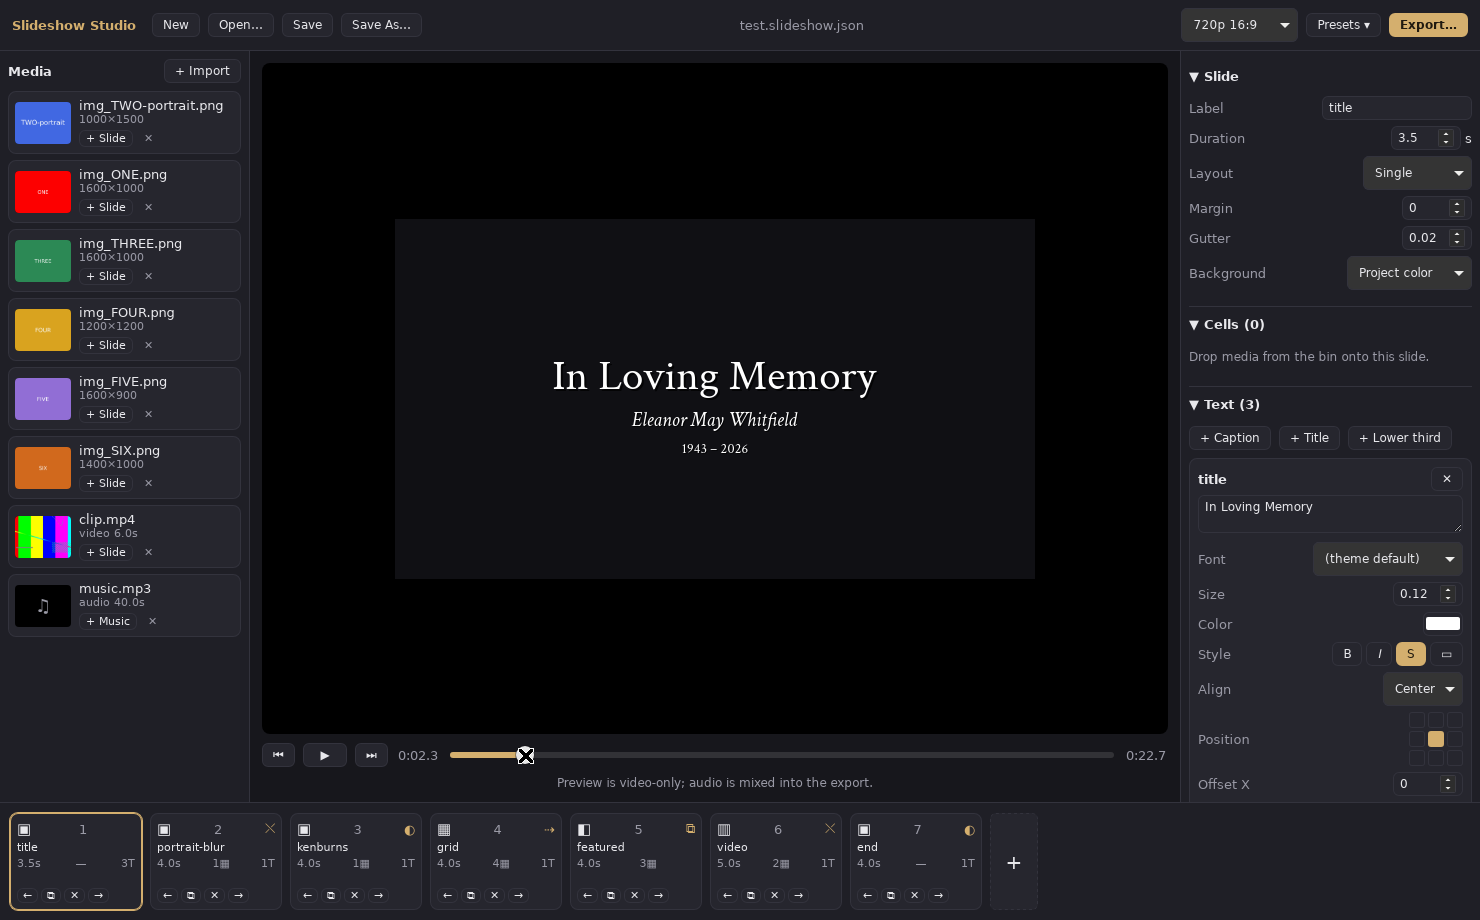
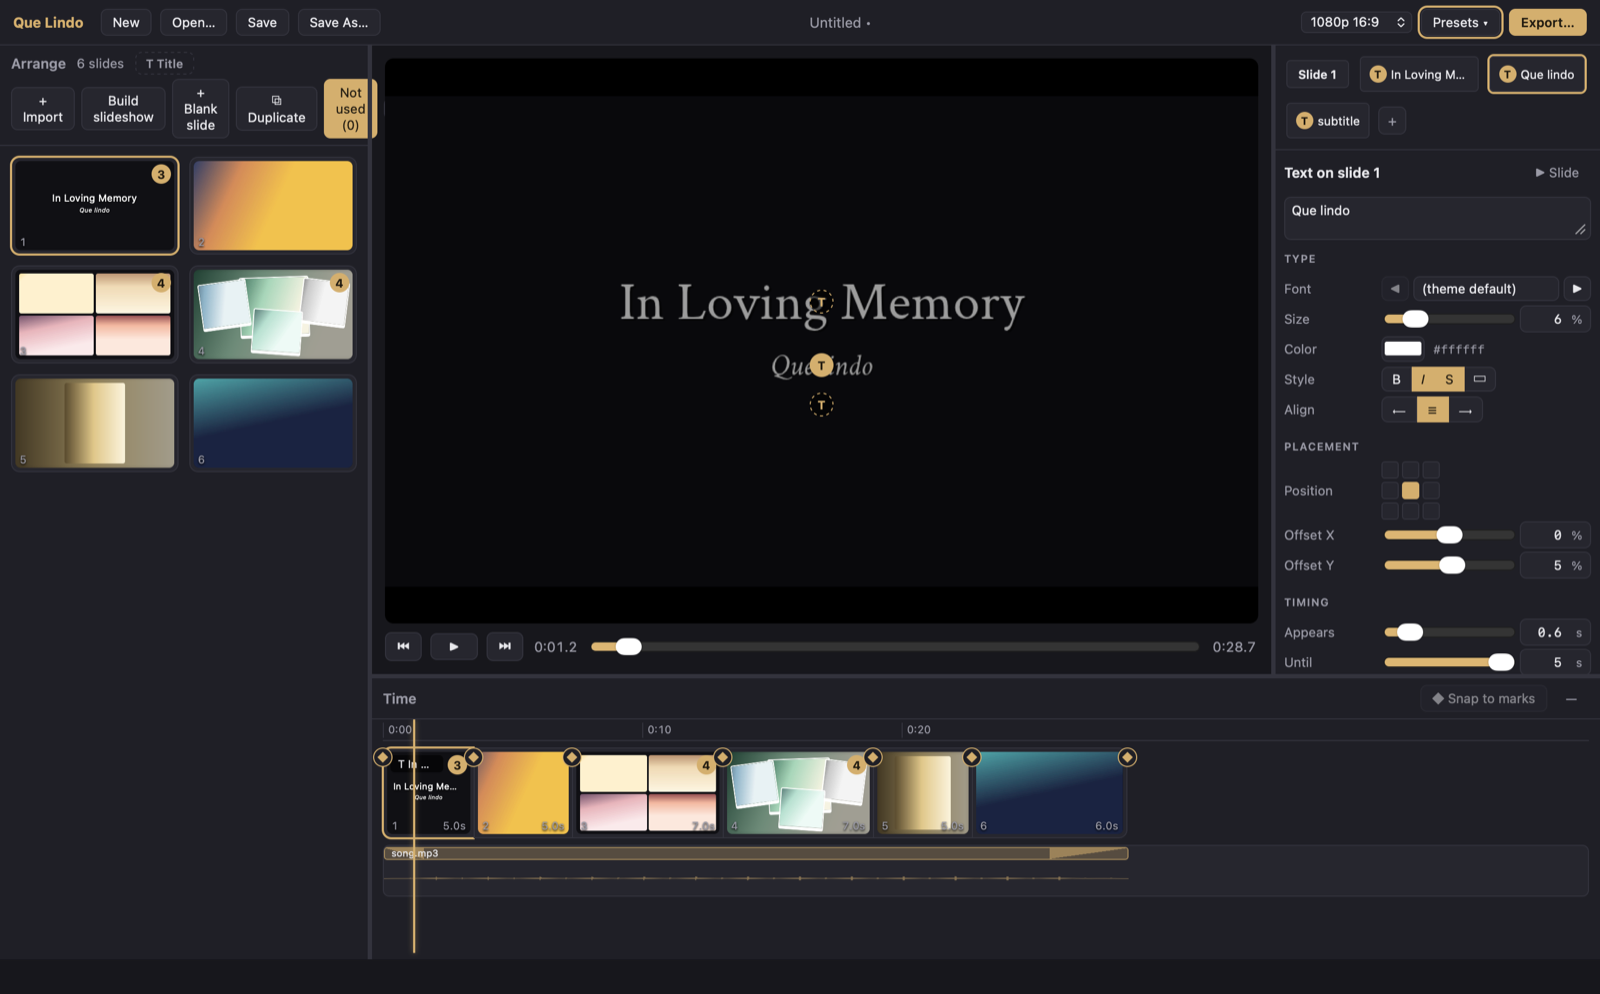
docs: refresh readme screenshots from current app
Five captures of the Que Lindo UI (title card and text controls, a moment
opened as a band, a photo's framing controls, the Time view with waveform,
the export dialog), taken by app/e2e/tools/screenshots.spec.ts through the
WebdriverIO session against generated gradient media. Replaces the six
Slideshow Studio-era shots.

diff --git a/app/e2e/tools/screenshots.spec.ts b/app/e2e/tools/screenshots.spec.ts
@@ -1,0 +1,102 @@
+// README screenshots. Not part of the default run; invoke explicitly:
+//
+//   SHOT_MEDIA=/path/to/photos SHOT_OUT=/path/to/out \
+//     npx wdio run e2e/wdio.conf.ts --spec e2e/tools/screenshots.spec.ts
+//
+// SHOT_MEDIA holds photos, an optional clip and an mp3; SHOT_OUT receives
+// numbered PNGs at the window's native (retina) resolution.
+import { browser, $, $$ } from "@wdio/globals";
+import { readdirSync } from "node:fs";
+import path from "node:path";
+import { act, clickButton, dom, dropFiles, resetApp, setMode, setValue, store, waitForDom, waitForImport, waitForStore } from "../page/app.js";
+
+const MEDIA = process.env.SHOT_MEDIA ?? "";
+const OUT = process.env.SHOT_OUT ?? "";
+
+describe("README screenshots", () => {
+  it("captures the main views", async () => {
+    if (!MEDIA || !OUT) throw new Error("set SHOT_MEDIA and SHOT_OUT");
+    const files = readdirSync(MEDIA)
+      .filter((f) => /\.(jpe?g|png|mp4|mov|mp3|m4a)$/i.test(f))
+      .sort()
+      .map((f) => path.join(MEDIA, f));
+    const shot = (name: string) => browser.saveScreenshot(path.join(OUT, name));
+
+    await resetApp();
+    await dropFiles(files);
+    await waitForImport(files, 60_000);
+    // The button stays disabled until every photo's fingerprint is in.
+    await waitForDom(() => {
+      const b = [...document.querySelectorAll<HTMLButtonElement>("button")].find((x) => (x.textContent ?? "").trim() === "Build slideshow");
+      return !!b && !b.disabled;
+    }, undefined, 60_000);
+    await clickButton("Build slideshow");
+    // A project with real slides asks first; the fresh title card should not,
+    // but accept the dialog either way.
+    await browser.pause(400);
+    if (await dom(() => !!document.querySelector(".modal-backdrop"))) {
+      await dom(() => document.querySelector<HTMLButtonElement>(".modal-backdrop button.primary")?.click());
+    }
+    await waitForStore((s) => s.project.slides.length >= 2 && s.project.slides[0].id.startsWith("auto-"), undefined, 60_000);
+    console.log("BUILT", JSON.stringify(await store((s) => s.project.slides.map((sl) => [sl.cells.length, sl.layout.type]))));
+    await browser.pause(2500); // thumbnails and the first frames
+    await dom(() => [...document.querySelectorAll<HTMLButtonElement>(".shelf-item button")].find((b) => b.title === "Add as a music track")?.click());
+    await waitForStore((s) => s.project.audio.length === 1);
+
+    // A title card up front, named.
+    await clickButton("Presets", ".topbar");
+    await clickButton("Add title card (start)");
+    await $("textarea[aria-label='Text content']").waitForExist();
+    await setValue({ sel: "textarea[aria-label='Text content']" }, "Que lindo");
+    await act((s) => s.setTime(1.2), undefined, 1500);
+    await shot("01-title.png");
+
+    // A collage, opened as a band.
+    const groupIndex = await store((s) => s.project.slides.findIndex((sl) => sl.cells.length > 1));
+    if (groupIndex > 0) {
+      await act((s, i) => s.selectSlide(i, true), groupIndex);
+      await act((s, i) => {
+        const span = s.timing!.spans[i];
+        s.setTime((span.start + span.end) / 2);
+      }, groupIndex);
+      await (await $$(".arrange-grid .slide-card, .face-arrange .slide-card"))[groupIndex].click(); // real click: focus for ↵
+      await browser.keys("Enter");
+      await waitForDom(() => !!document.querySelector(".group-band"));
+      await browser.pause(1500);
+      await shot("02-group.png");
+      await browser.keys("Escape");
+    }
+
+    // One photo, with its framing controls and the zoom aim handle.
+    const photoIndex = await store((s) => s.project.slides.findIndex((sl) => sl.cells.length === 1 && sl.texts.length === 0));
+    await act((s, i) => {
+      s.selectSlide(i, true);
+      s.selectCell(0);
+      const span = s.timing!.spans[i];
+      s.setTime((span.start + span.end) / 2);
+    }, photoIndex, 1500);
+    await shot("03-photo.png");
+
+    // Time view with the waveform.
+    await setMode("time");
+    await act((s) => s.setPlaying(false));
+    await waitForDom(() => {
+      const c = document.querySelector<HTMLCanvasElement>(".audio-lane canvas");
+      const g = c?.getContext("2d");
+      if (!c || !g) return false;
+      const d = g.getImageData(0, 0, c.width, c.height).data;
+      for (let i = 3; i < d.length; i += 160) if (d[i] > 0) return true;
+      return false;
+    }, undefined, 20_000);
+    await act((s) => s.setTime(4), undefined, 1200);
+    await shot("04-time.png");
+    await setMode("arrange");
+
+    // Export dialog.
+    await clickButton("Export…", ".topbar");
+    await $(".modal").waitForExist();
+    await browser.pause(500);
+    await shot("05-export.png");
+    await browser.keys("Escape");
+  });
+});

diff --git a/docs/going-public-checklist.md b/docs/going-public-checklist.md
@@ -33,9 +33,9 @@ Tracking what stands between this repository and a public GitHub repo named
 - [ ] Rename the GitHub repo (or create `que-lindo`) and update the local
       remote. The local folder is still `memorial-slideshow-gen`; rename it
       when convenient. Nothing in the build depends on the folder name.
-- [ ] Re-take the six screenshots in `docs/screenshots/`. They show the old
-      name and the old three-pane layout, so the README no longer embeds them.
-      Add them back to the README once refreshed.
+- [x] Screenshots re-taken 2026-09-07 with generated gradient media via
+      `app/e2e/tools/screenshots.spec.ts` (see its header for the command).
+      Swap in shots with real photos whenever you have some you can publish.
 - [ ] Make a real app icon. `app/src-tauri/icons/` is still the Tauri
       placeholder.
 - [ ] Read the dedication paragraph at the top of `README.md` and make it
@@ -61,9 +61,9 @@ Tracking what stands between this repository and a public GitHub repo named
 - [ ] Rename the GitHub repo (or create `que-lindo`) and update the local
       remote. The local folder is still `memorial-slideshow-gen`; rename it
       when convenient. Nothing in the build depends on the folder name.
-- [ ] Re-take the six screenshots in `docs/screenshots/`. They show the old
-      name and the old three-pane layout, so the README no longer embeds them.
-      Add them back to the README once refreshed.
+- [x] Screenshots re-taken 2026-09-07 with generated gradient media via
+      `app/e2e/tools/screenshots.spec.ts` (see its header for the command).
+      Swap in shots with real photos whenever you have some you can publish.
 - [ ] Make a real app icon. `app/src-tauri/icons/` is still the Tauri
       placeholder.
 - [ ] Read the dedication paragraph at the top of `README.md` and make it

diff --git a/README.md b/README.md
@@ -13,6 +13,14 @@ job needed. This project is named for her.
 > **Status:** 0.1.0. Developed and used on macOS. Windows builds in CI but has
 > had far less use. There are no releases yet; build from source (below).
 
+## Screenshots
+
+| | |
+|---|---|
+| ![Title card, text controls, split Arrange and Time view](docs/screenshots/01-title.png) | ![A four-photo moment opened as a band, layout picker](docs/screenshots/02-group.png) |
+| ![One photo: motion, fit and framing controls, zoom aim handle](docs/screenshots/03-photo.png) | ![Time view with the music waveform and beat marks](docs/screenshots/04-time.png) |
+| ![Export dialog with size presets](docs/screenshots/05-export.png) | |
+
 ## What it does
 
 ### From a pile of photos to a draft in one click
@@ -227,6 +235,7 @@ crates/slideshow-cli    headless CLI (bin: slideshow)
 app/                    Tauri v2 app (React + TypeScript), face detection,
                         embeddings, preview server
 app/e2e/                WebdriverIO end-to-end suites against the real app
+                        (tools/screenshots.spec.ts regenerates the README shots)
 examples/               full-feature project + placeholder media generator
 scripts/                ffmpeg sidecar fetchers
 tools/autocrop          print scanning helper
